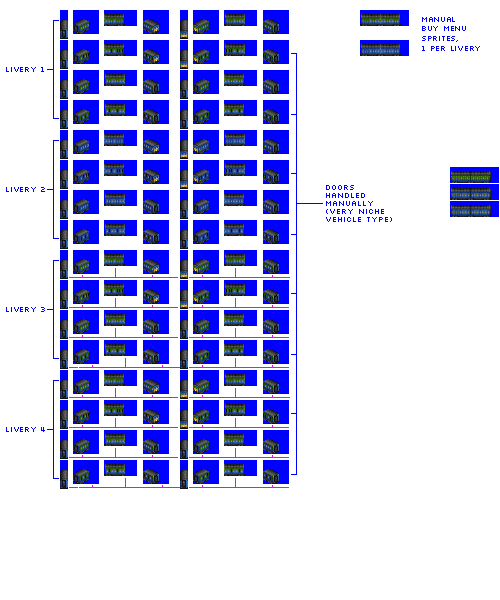
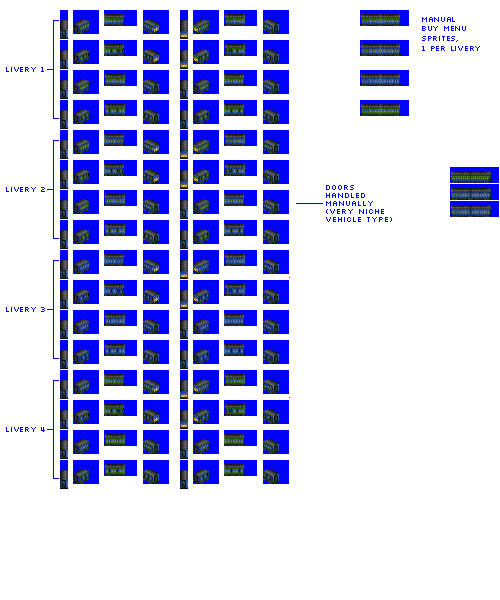
Change: additional liveries for Autocoach

diff --git a/src/vehicles/pony/autocoach_pony_gen_2.py b/src/vehicles/pony/autocoach_pony_gen_2.py
@@ -15,7 +15,7 @@ def main(**kwargs):
         name="Autocoach Set",
         replacement_model_id="clipper",  # autocoach ends with gen 4 clipper
         gen=2,
-        liveries=["RIDEWELL", "BANGER_BLUE"],
+        liveries=["RIDEWELL", "RAIN_OR_SHINE", "BANGER_BLUE", "SURE_PACE"],
         sprites_complete=True,
     )
 
